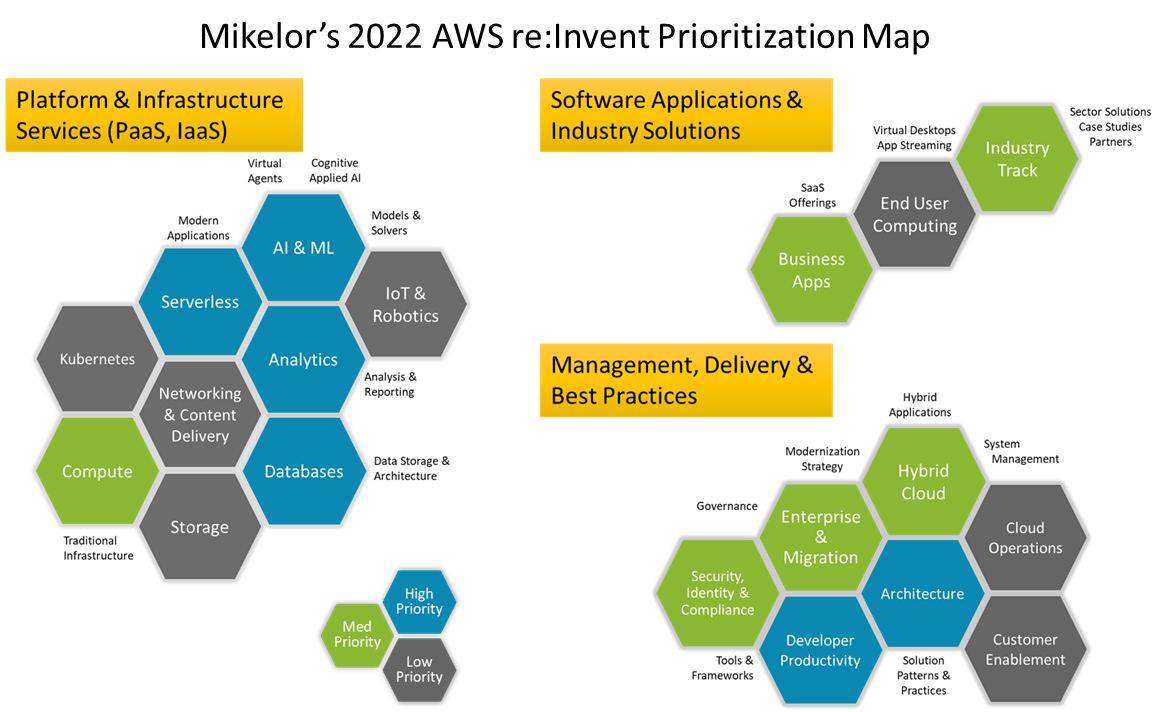
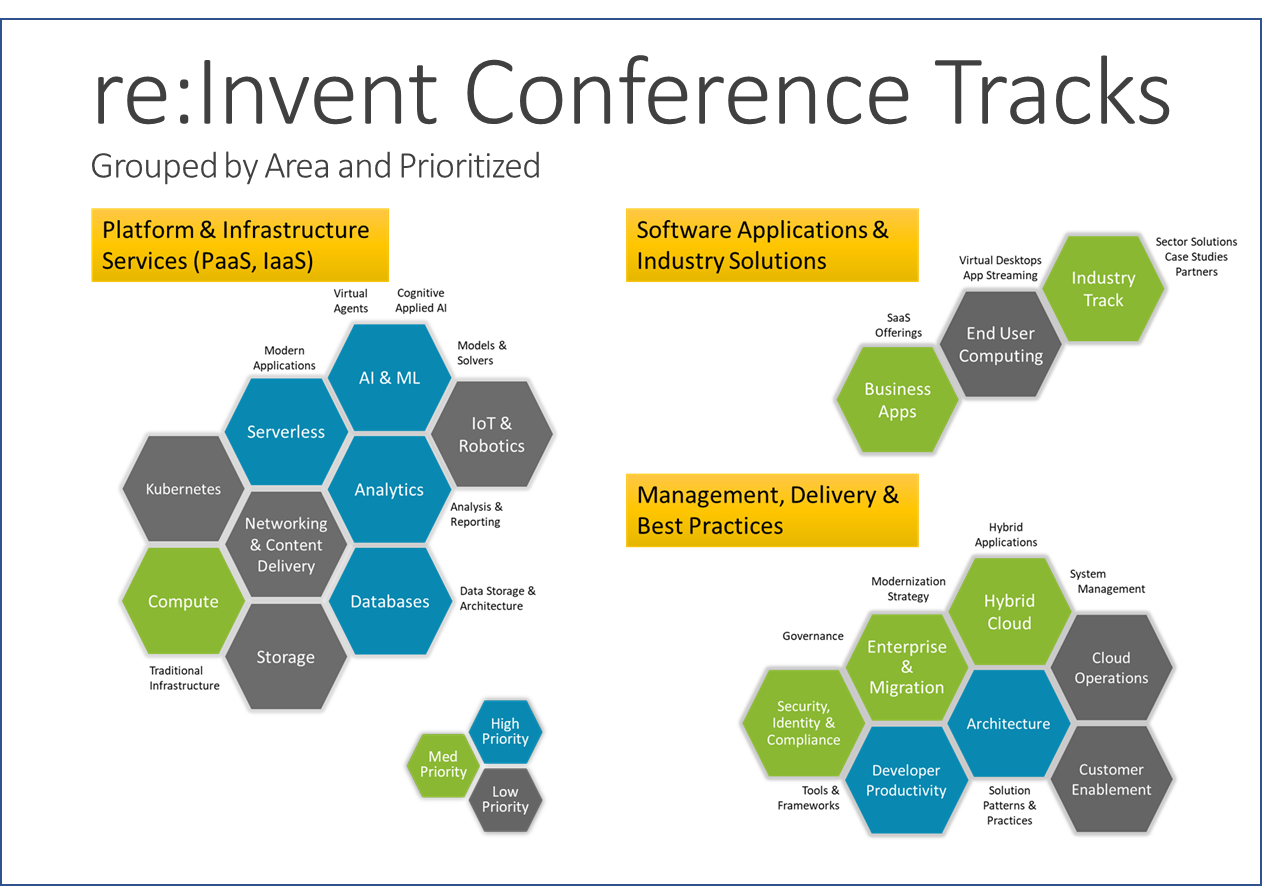
Updated AWS

diff --git a/_posts/2022-11-27-aws-reinvent-2022-planning.md b/_posts/2022-11-27-aws-reinvent-2022-planning.md
@@ -1,0 +1,34 @@
+---
+layout: post
+current: post
+cover:  assets/images/aws/amazonreinventdali.png
+navigation: True
+title: Hello AWS re:Invent 2022
+date: 2022-11-27 12:00:00
+tags: aws
+class: post-template
+subclass: 'post'
+logo: assets/images/ghost.png
+author: mikelor
+---
+# What did I just do?
+According to [AWS re:Invent](https://reinvent.awsevents.com/learn/breakout-content/) website, there are 50 content tracks and more than **2,000 sessions!** The conference itself is spread over a ["campus"](https://reinvent.awsevents.com/campus/#map) of 6 resorts on opposite ends Las Vegas Strip. It's been five years since my last AWS re:Invent conference, and if there is only one takeaway, it's this: You Need a Plan.
+
+# My Goal
+It's been a couple of years since I worked with AWS. The pace of change happens at breakneck speed in the cloud, so it's likely that what I worked with 2 years ago, would be a faint afterimage of AWS today. 
+
+## Prioritize Conference Tracks
+The graphic below is my attempt to make some sense out of the myriad of sessions listed in the conference catalog. 
+![Conference Tracks Grouped and Prioritized](assets/images/aws/prioritizationMap.png)
+
+I've grouped them in three major areas
+  1. Platform and Infrastructure Services
+  1. Software Applications and Industry Solutions
+  1. Management, Delivery, and Best Practices
+
+My main focus would be on the next level of cloud architecture, staying away from the core Infrastructure pieces but instead prioritize serverless, platform, and analytics services.
+
+
+
+
+
